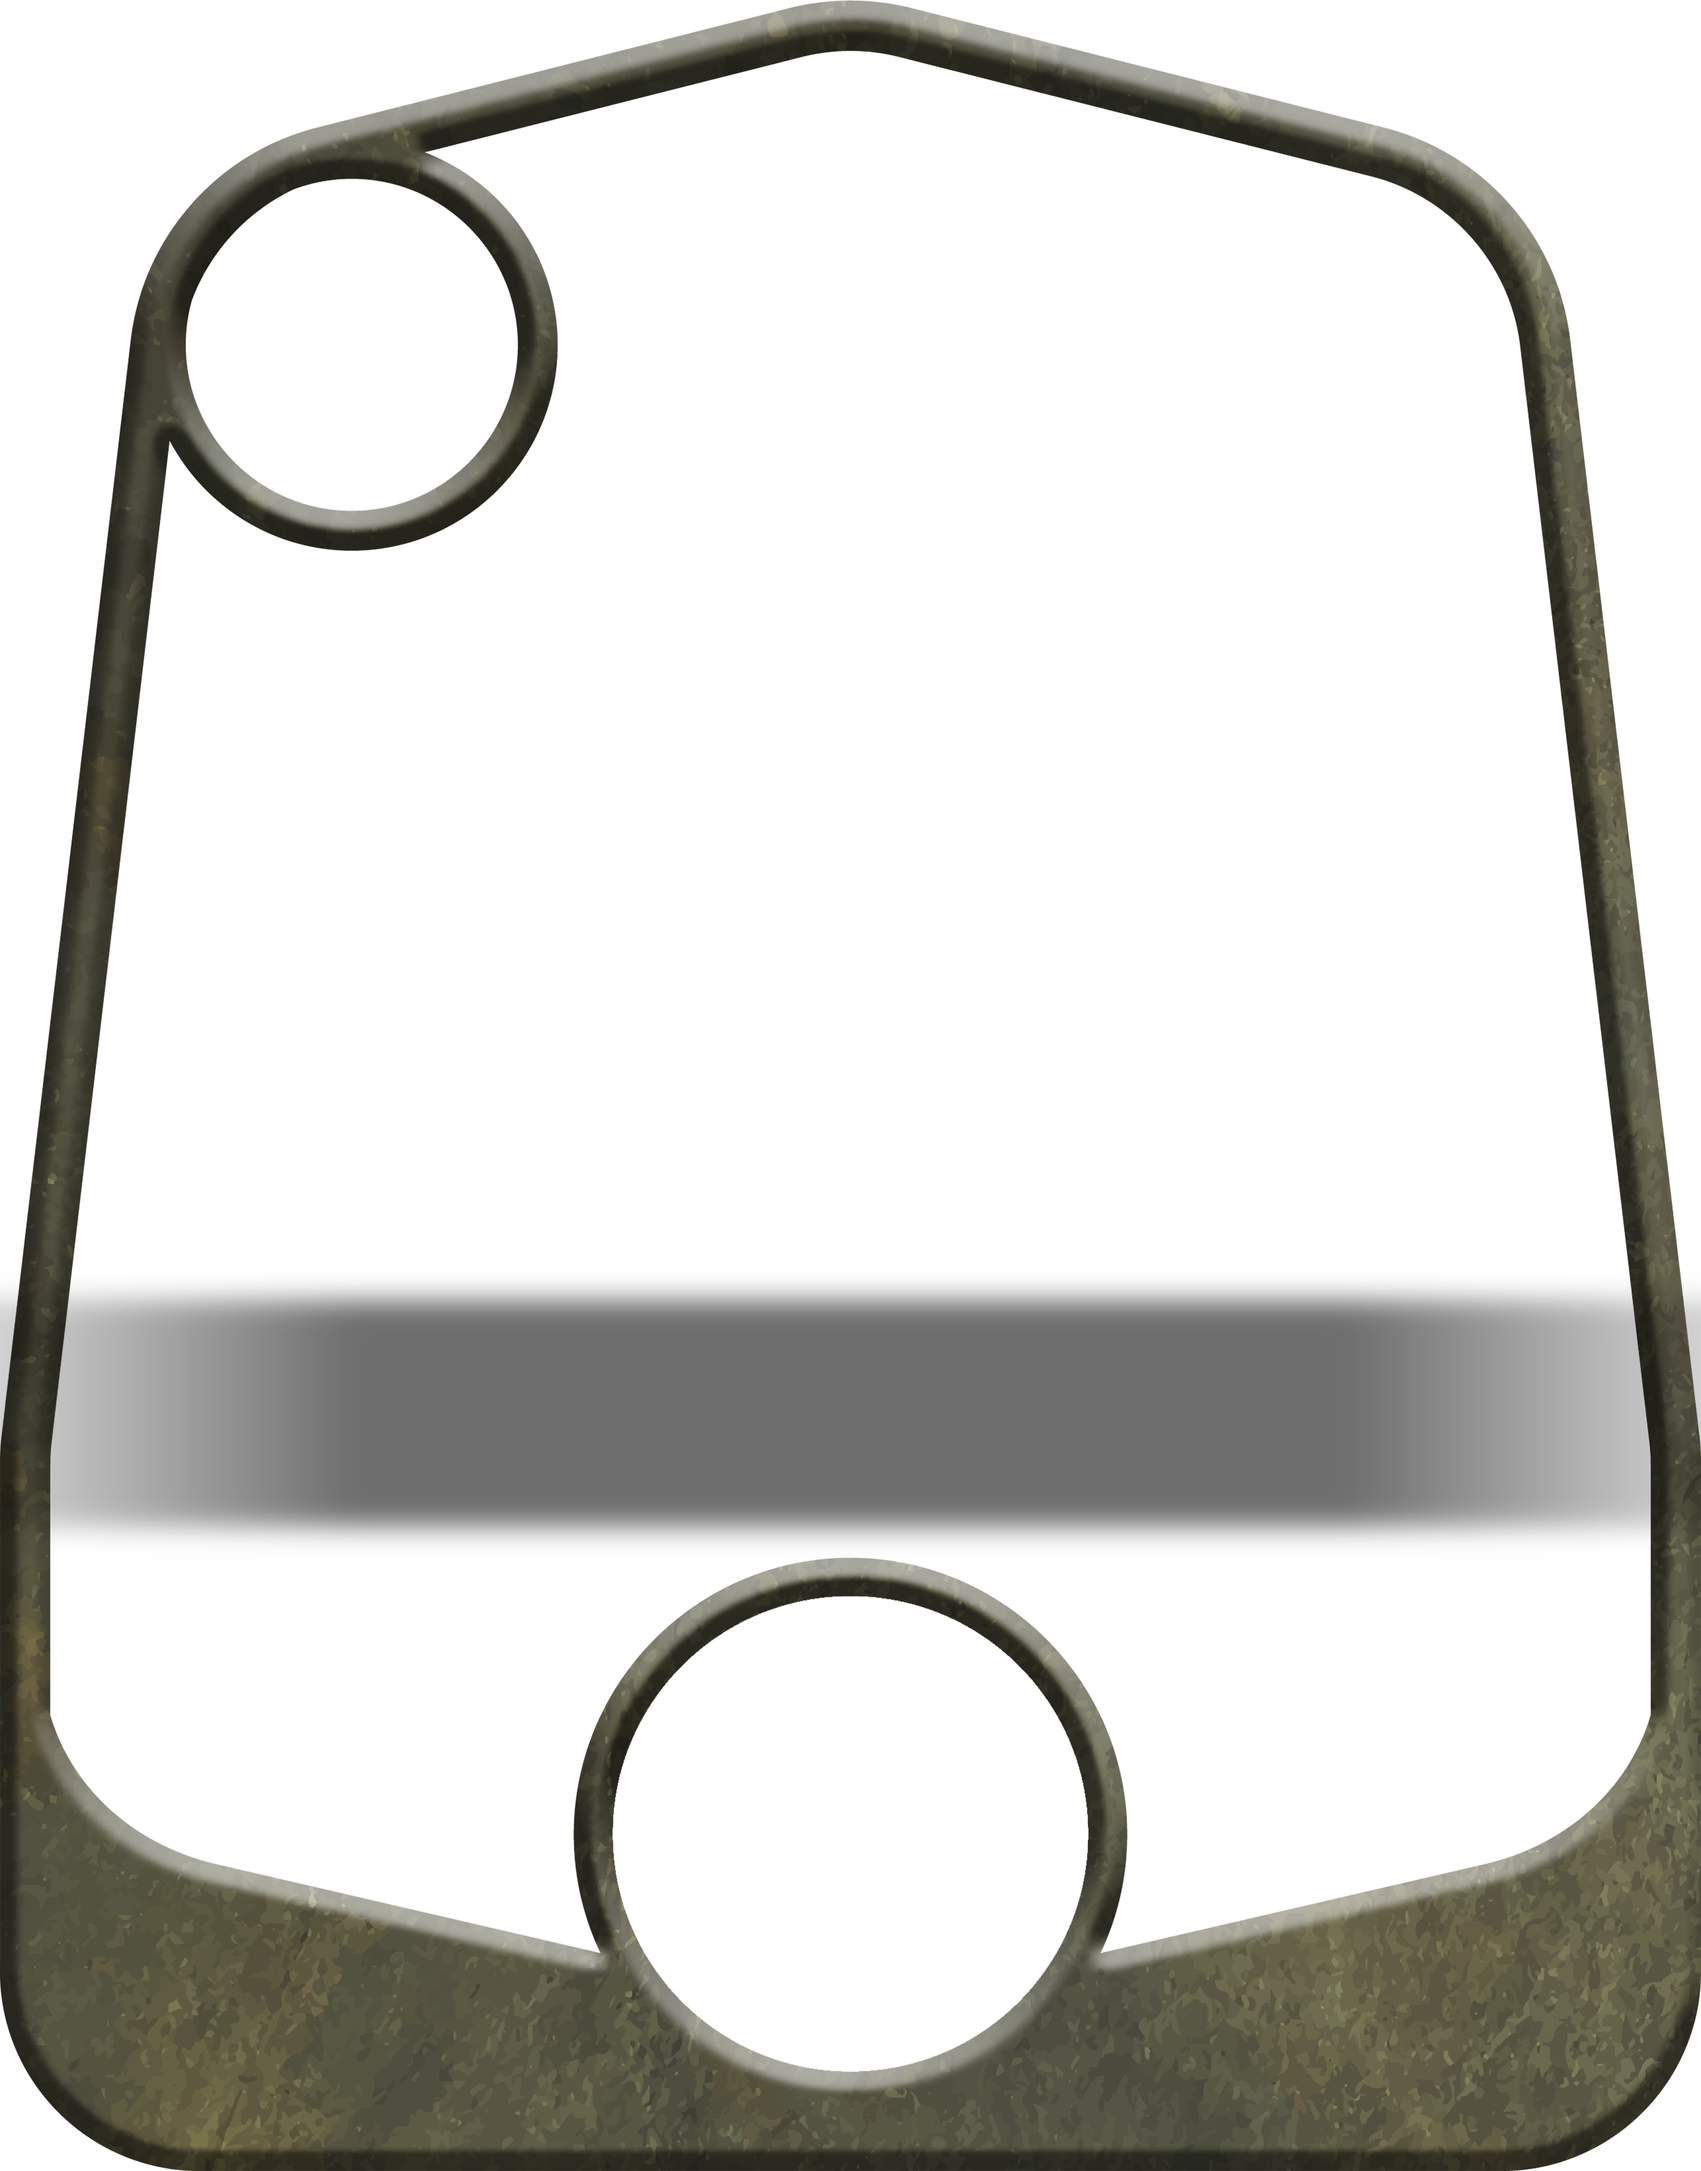
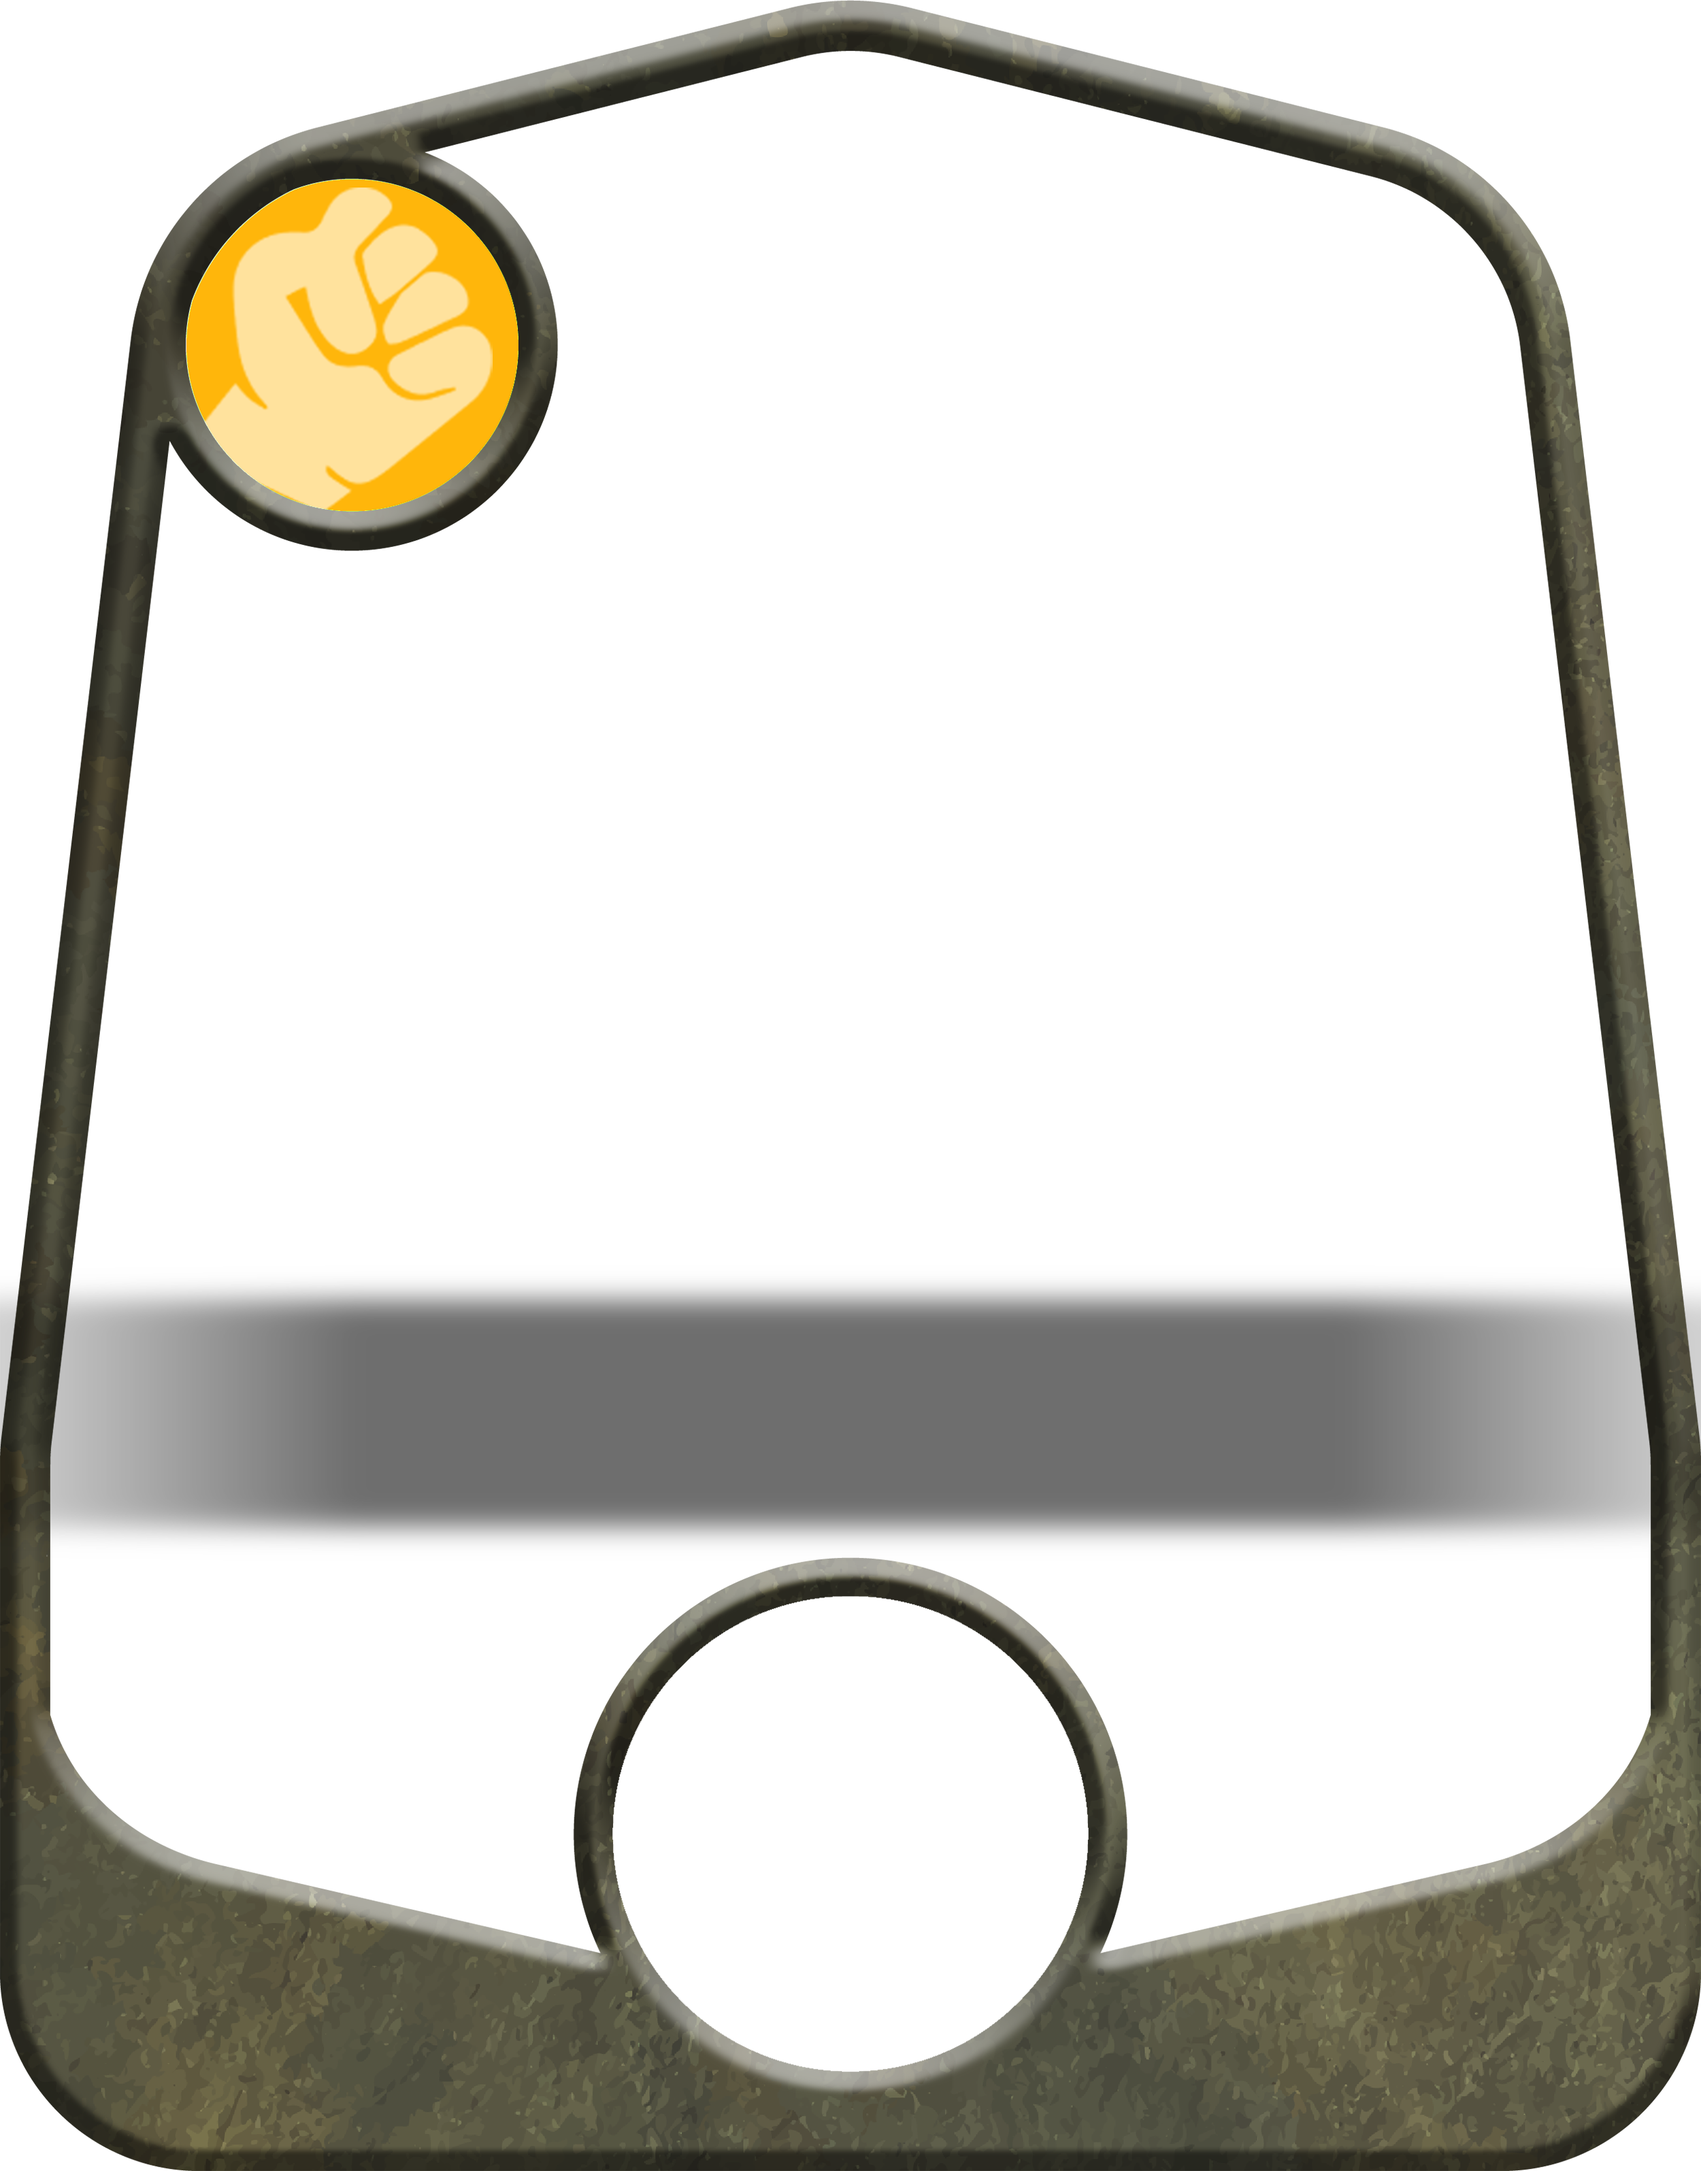
cards well advanced

Changed region(s): [[0.0936, 0.062, 0.312, 0.2482]]

diff --git a/css/style.css b/css/style.css
@@ -126,26 +126,35 @@ body {
   flex-direction: column;
   justify-content: center;
   text-transform: uppercase;
+  align-items: center;
   color: #FBF5E8;
+  background-image: url(/img/atk-icon-full-size.png);
 }
 .hero__frame {
   width: 50%;
   position: absolute;
-  z-index: 1;
+  z-index: 10;
 }
 .hero__name {
   position: relative;
   font-size: 1.125rem;
-  z-index: 10;
-  bottom: 4.25rem;
+  z-index: 100;
+  bottom: 3.5rem;
 }
 .hero__attack {
   position: relative;
+  font-size: 1.625rem;
   z-index: 10;
+  bottom: 12.5rem;
+  left: -3.75rem;
+  text-shadow: 0 3px rgba(1, 1, 1, 0.5);
 }
 .hero__pv {
+  font-size: 2.125rem;
   position: relative;
   z-index: 10;
+  bottom: 3.6rem;
+  text-shadow: 0 3px rgba(1, 1, 1, 0.5);
 }
 .hero__img {
   position: relative;
@@ -174,26 +183,35 @@ body {
   flex-direction: column;
   justify-content: center;
   text-transform: uppercase;
+  align-items: center;
   color: #FBF5E8;
+  background-image: url(/img/atk-icon-full-size.png);
 }
 .hero__frame {
   width: 50%;
   position: absolute;
-  z-index: 1;
+  z-index: 10;
 }
 .hero__name {
   position: relative;
   font-size: 1.125rem;
-  z-index: 10;
-  bottom: 4.25rem;
+  z-index: 100;
+  bottom: 3.5rem;
 }
 .hero__attack {
   position: relative;
+  font-size: 1.625rem;
   z-index: 10;
+  bottom: 12.5rem;
+  left: -3.75rem;
+  text-shadow: 0 3px rgba(1, 1, 1, 0.5);
 }
 .hero__pv {
+  font-size: 2.125rem;
   position: relative;
   z-index: 10;
+  bottom: 3.6rem;
+  text-shadow: 0 3px rgba(1, 1, 1, 0.5);
 }
 .hero__img {
   position: relative;

diff --git a/scss/components/_hero.scss b/scss/components/_hero.scss
@@ -5,37 +5,46 @@
     flex-direction: column;
     justify-content: center;
     text-transform: uppercase;
+    align-items: center;
     color: $cream;
+    background-image: url(/img/atk-icon-full-size.png);
 
     &__frame {
         width: 50%;
         position: absolute;
-        z-index: 1;
+        z-index: 10;
 
     }
 
     &__name {
         position: relative;
         font-size: 1.125rem;
-        z-index: 10;
-        bottom: 4.25rem;
+        z-index: 100;
+        bottom: 3.5rem;
     }
 
     &__attack {
         position: relative;
+        font-size: 1.625rem;
         z-index: 10;
-
+        bottom: 12.5rem;
+        left: -3.75rem;
+        text-shadow: 0 3px $black50;
     }
 
     &__pv {
+        font-size: 2.125rem;
         position: relative;
         z-index: 10;
+        bottom: 3.6rem;
+        text-shadow: 0 3px $black50;
     }
 
     &__img {
         position: relative;
         width: 50%;
         // mask-image: url(/img/card-mask.png);
+
     }
 
 }

diff --git a/scss/_var.scss b/scss/_var.scss
@@ -10,4 +10,5 @@ $cream50: rgba(251, 246, 233, 0.5);
 
 /* Secondary coulours */
 $black: #010101;
+$black50: rgba(1, 1, 1, 0.5);
 $yellow: #FFC90A;
